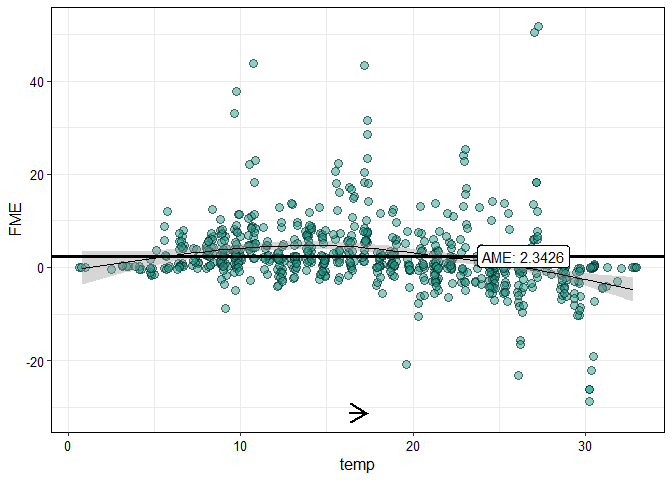
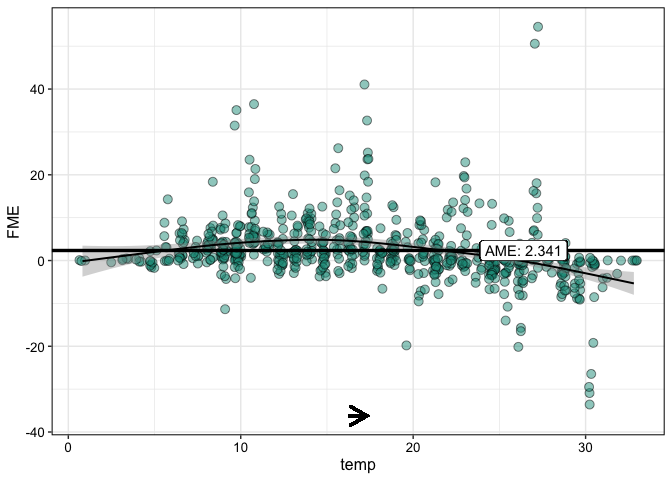
new workflows

diff --git a/README.md b/README.md
@@ -9,6 +9,7 @@ developed.](https://www.repostatus.org/badges/latest/active.svg)](https://www.re
 status](https://www.r-pkg.org/badges/version-last-release/fmeffects)](https://www.r-pkg.org/badges/version-last-release/fmeffects)
 [![CRAN total
 downloads](https://cranlogs.r-pkg.org/badges/grand-total/fmeffects)](https://cranlogs.r-pkg.org/badges/grand-total/fmeffects)
+[![R-CMD-check](https://github.com/holgstr/fme/actions/workflows/R-CMD-check.yaml/badge.svg)](https://github.com/holgstr/fme/actions/workflows/R-CMD-check.yaml)
 <!-- badges: end -->
 
 # **`fmeffects`**: An R Package for Forward Marginal Effects <img src="man/figures/logo.png" align="right" alt="" width="120" />
@@ -72,28 +73,28 @@ summary(overview)
     #> 
     #> Model Summary Using Average Marginal Effects:
     #> 
-    #>       Feature step.size       AME      SD      0.25      0.75   n
-    #> 1      season    spring   -29.472 31.5101   -39.955   -5.5139 548
-    #> 2      season    summer    0.4772 22.5212   -9.0235   11.6321 543
-    #> 3      season      fall   11.7452 28.5851   -2.4282   34.1763 539
-    #> 4      season    winter   15.5793 24.6394    1.6525   26.2254 551
-    #> 5        year         0   -99.038 67.1788 -157.0608  -20.0628 364
-    #> 6        year         1   97.0566  60.521   21.9401  148.0847 363
-    #> 7       month         1    4.0814 13.3513   -1.2566     7.459 727
-    #> 8     holiday     False   -1.2178 21.6103   -9.1095    9.8232  21
-    #> 9     holiday      True   -13.738 25.3496  -32.6323    6.2019 706
-    #> 10    weekday       Sat  -55.0908 49.6534  -87.6489  -15.8843 622
-    #> 11    weekday       Sun  -85.1527 57.7791 -122.1504  -31.8105 622
-    #> 12    weekday       Mon   10.7224 29.2179   -8.4101   30.4207 623
-    #> 13    weekday       Tue   17.9396  25.728    1.1959   32.5073 625
-    #> 14    weekday       Wed   20.4025 23.1599    1.3386   32.8358 623
-    #> 15    weekday       Thu   19.4455 24.1105   -0.3097   33.4997 624
-    #> 16    weekday       Fri    1.7712 35.3088  -24.8956   29.5147 623
-    #> 17 workingday     False -204.1875 89.3882  -257.144 -142.4332 496
-    #> 18 workingday      True  161.0619 62.5733  118.9398  209.6916 231
-    #> 19    weather     clear   26.1983 41.7886    3.5991   25.9257 284
-    #> 20    weather     misty     3.023 32.8661   -9.1498     0.973 513
-    #> 21    weather      rain  -55.3083 53.0127  -94.4096    -5.481 657
-    #> 22       temp         1    2.3426  7.1269   -0.4294    4.5534 727
-    #> 23   humidity      0.01   -0.2749   2.626   -0.3249    0.3504 727
-    #> 24  windspeed         1    0.0052  2.4318   -0.1823    0.2318 727
+    #>       Feature step.size       AME      SD      0.25     0.75   n
+    #> 1      season    spring  -29.5627 30.3933  -38.9776    -6.47 548
+    #> 2      season    summer    0.3712 22.2538   -8.3257  11.5291 543
+    #> 3      season      fall   13.9269 28.0969   -0.2271  35.7786 539
+    #> 4      season    winter   14.6231 24.5739    1.2331  25.8998 551
+    #> 5        year         0 -100.0511 67.9522 -158.5412  -20.643 364
+    #> 6        year         1   97.9793 61.0461   23.7845 149.0662 363
+    #> 7       month         1    4.1008 13.1329   -1.2309   7.4386 727
+    #> 8     holiday     False   -1.7886 21.8287   -9.6724   8.3443  21
+    #> 9     holiday      True  -13.4861 25.6105  -32.4273   6.4777 706
+    #> 10    weekday       Sat  -54.0185 48.8713  -85.2344 -16.5142 622
+    #> 11    weekday       Sun  -82.8857 55.7827 -119.0325 -32.2624 622
+    #> 12    weekday       Mon   10.1004 27.9977   -8.8229  30.4342 623
+    #> 13    weekday       Tue   17.1576 24.7033    0.5063  32.5038 625
+    #> 14    weekday       Wed   20.3346  22.484    1.3541  34.6645 623
+    #> 15    weekday       Thu   19.5628 23.6865   -0.4163  35.5117 624
+    #> 16    weekday       Fri    1.3505 35.6711  -25.4026  29.6176 623
+    #> 17 workingday     False -204.8757 89.7998 -259.5304  -143.91 496
+    #> 18 workingday      True  162.7476  63.766  121.3106 210.1368 231
+    #> 19    weather     clear   26.0338 41.5209    3.8218  24.2506 284
+    #> 20    weather     misty    3.0396 32.1851   -8.7945   1.1693 513
+    #> 21    weather      rain  -55.5029 52.9214   -93.484  -3.5707 657
+    #> 22       temp         1     2.341  7.1894   -0.5878   4.3155 727
+    #> 23   humidity      0.01   -0.2617  2.7596   -0.3505    0.434 727
+    #> 24  windspeed         1    0.0207  2.1497   -0.1694   0.2686 727
